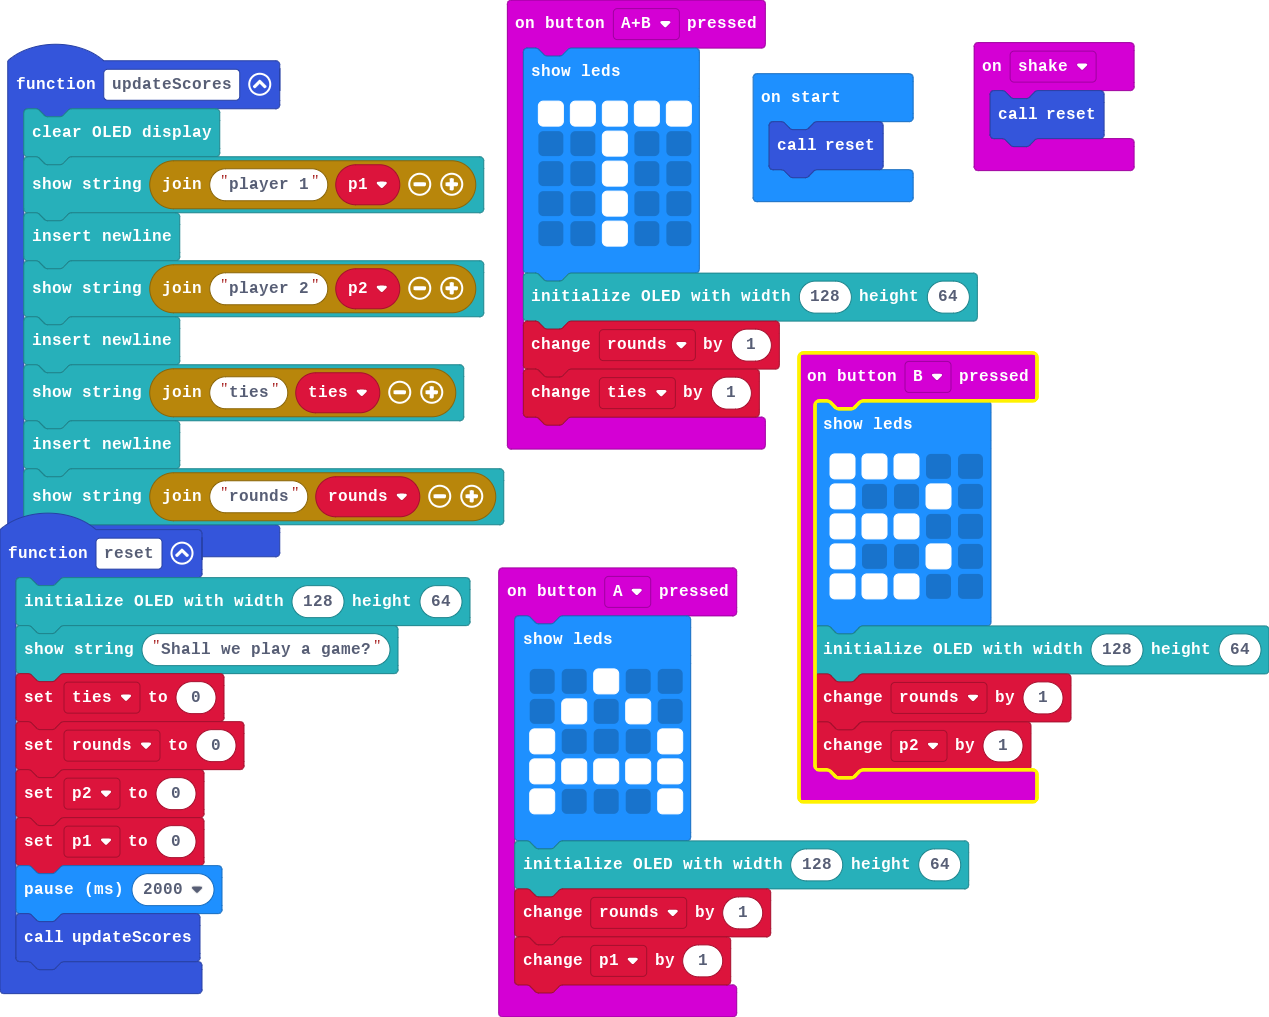
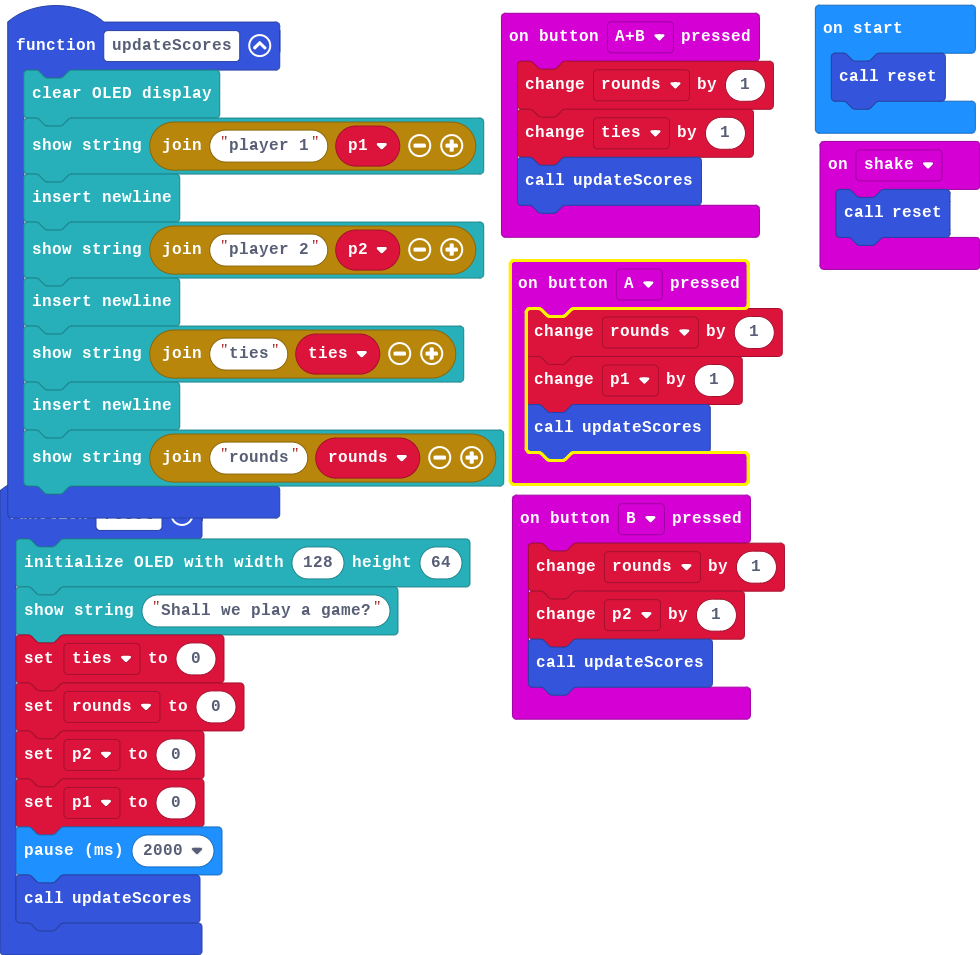
Update main.blocks, main.ts

diff --git a/main.ts b/main.ts
@@ -1,38 +1,17 @@
 input.onButtonPressed(Button.A, function () {
-    basic.showLeds(`
-        . . # . .
-        . # . # .
-        # . . . #
-        # # # # #
-        # . . . #
-        `)
-    OLED.init(128, 64)
     rounds += 1
     p1 += 1
+    updateScores()
 })
 input.onButtonPressed(Button.AB, function () {
-    basic.showLeds(`
-        # # # # #
-        . . # . .
-        . . # . .
-        . . # . .
-        . . # . .
-        `)
-    OLED.init(128, 64)
     rounds += 1
     ties += 1
+    updateScores()
 })
 input.onButtonPressed(Button.B, function () {
-    basic.showLeds(`
-        # # # . .
-        # . . # .
-        # # # . .
-        # . . # .
-        # # # . .
-        `)
-    OLED.init(128, 64)
     rounds += 1
     p2 += 1
+    updateScores()
 })
 input.onGesture(Gesture.Shake, function () {
     reset()
